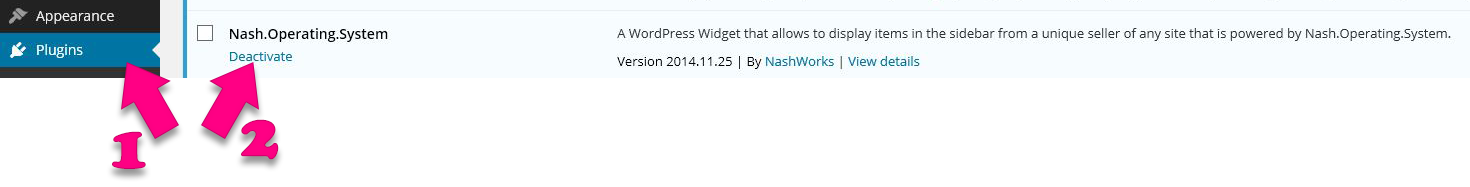
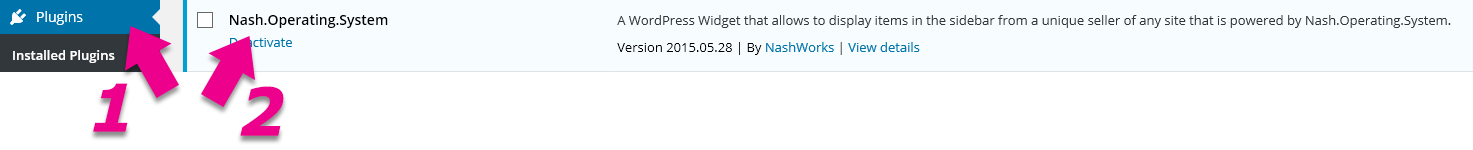
light update to fit WordPress's latest requirements
git-svn-id: https://plugins.svn.wordpress.org/nash-operating-system/trunk@1168274 b8457f37-d9ea-0310-8a92-e5e31aec5664

Changed region(s): [[0.0, 0.0, 1.0, 0.96], [0.398, 0.1067, 1.0, 0.2133], [0.398, 0.2667, 0.6429, 0.3733]]

diff --git a/nash-operating-system.php b/nash-operating-system.php
@@ -3,7 +3,7 @@
 Plugin Name: Nash.Operating.System
 Plugin URI: http://blog.nashbrooklyn.com
 Description: A WordPress Widget that allows to display items in the sidebar from a unique seller of any site that is powered by Nash.Operating.System.
-Version: 2015.05.28
+Version: 2015.05.29
 Author: NashWorks
 Author URI: http://nashbrooklyn.com
 Donate URI: https://www.paypal.com/cgi-bin/webscr?cmd=_s-xclick&hosted_button_id=7QQ32CGQAQ886
